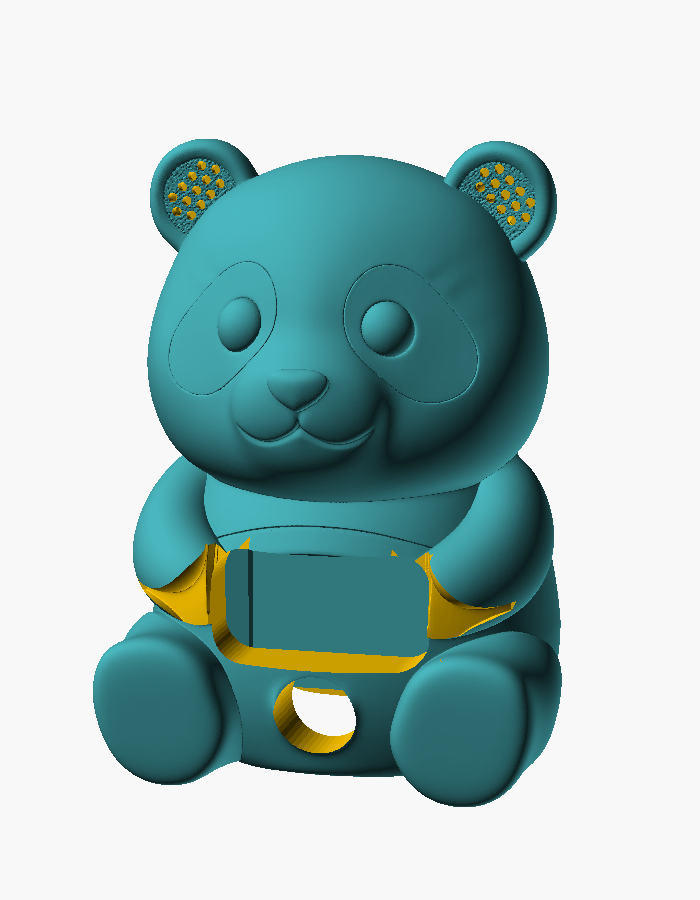
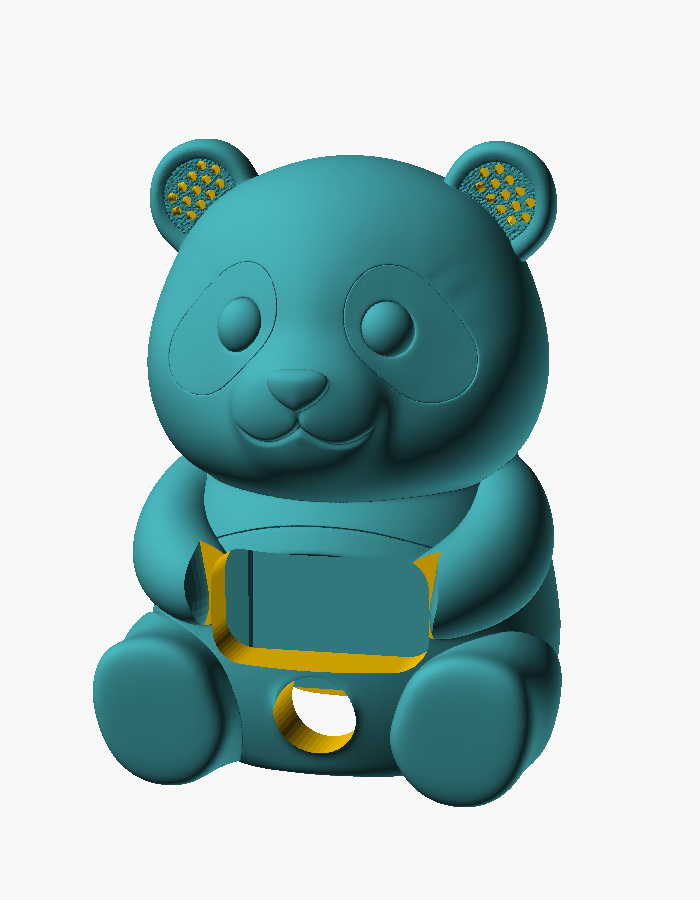
Roll the paw tips off the screen edge; drop the window bevel
The window bevel was the wrong tool. oled_bevel_* flared the whole aperture 5mm
outward wherever the skin bulged past Y58, which turned the paw slice into a ~35deg
bevel but left two flat "wings" either side of the screen, each ending in a hard
crescent line across the paw. Combined with the axis-shifted arm_trim raking the
arm's whole flank, the arms read as damaged rather than shortened.

What the arms actually are, from a fresh scan of the 500k mesh: at screen height
they ARE the body's flank. The front profile at Z56 climbs smoothly from Y38.7 at
X-52 to the paw crest Y61.5 at X-28 with no crease anywhere, i.e. there is no belly
surface hidden behind the folded arms. So they cannot be relocated or shaved back to
a torso: the cage's front face is at Y40.35, only ~13mm behind the paw crest, and a
Laplace-inpainted "belly" under the arms sags to Y38-44 through the arm zone, which
would both collapse the silhouette and leave 1-3mm of wall over the cage.

They also cannot be rigidly slid, which is the obvious reading of "shorten the arm".
The arm is fused to the belly along its whole length and the belly falls away steeply
outboard - at Z50 the skin drops from Y52.9 at X-44 to Y34.2 at X-52 - so a paw slid
8mm outboard hangs in mid-air off the flank, and slid along the arm axis it drags the
whole ridge with it and leaves a flat gap behind. Cutting perpendicular and sliding
always exposes a ledge, since the stump is fatter than the paw arriving at it. Only a
[…]

Changed region(s): [[0.6, 0.5911, 0.75, 0.7156], [0.21, 0.5911, 0.36, 0.7156]]

diff --git a/enclosure/README.md b/enclosure/README.md
@@ -12,6 +12,8 @@ be opened to service the clock.
 | `dimensions.scad` | Every component measurement + design decision, in ONE place. **Edit here.** |
 | `helpers.scad` | Shared shape modules (rounded box, screw boss, etc.). |
 | `cage.scad` | The electronics cage - the real mechanical part. Print-ready. |
+| `panda.scad` | The panda body: imports the sculpt, hollows it, cuts the openings. |
+| `fitcheck.scad` | Seats the cage in the body (ghost / section / breach modes). |
 | `layout_backwall.scad` | 2D map of the back-wall board layout (collision check). |
 | `render_previews.sh` | Renders `previews/*.png`. |
 
@@ -43,6 +45,37 @@ openscad -o cage.stl      -D 'part="cage"'      cage.scad
 openscad -o esp32_bar.stl -D 'part="esp32_bar"' cage.scad
 openscad -o dfp_bar.stl   -D 'part="dfp_bar"'   cage.scad
 ```
+
+## The panda body (`panda.scad`)
+
+Imports `panda/panda_original.stl` (never edited in place), scales it to 160 mm,
+hollows only where the cage sits, and cuts the OLED window, the joystick cone, the
+speaker chimney into the hollow head, the ear grilles, and the base hatch/rebate.
+Needs the **Manifold** backend (`--backend=Manifold`); the 500k-triangle mesh is
+far too slow for CGAL.
+
+**The folded arms / paw ends.** The OLED's lit area is 55.4 mm wide but the sculpted
+belly plaque is only ~40 mm, so the window's side edges land on the sculpt's folded
+paws. The arms cannot be relocated - at screen height they *are* the body's flank
+(there is no belly surface behind them), the cage needs that material, and the belly
+falls away too steeply outboard for a rigid slide to work - so instead each paw is
+**shortened, with its inboard tip rolled off to stop 0.4 mm short of the window
+rim**: everything in front of a bezel plane (`arm_y`, the plaque's own face level)
+inside a box around the arm is planed off, except an idealised arm - `arm_chain`, a
+chain of hulled spheres centred on that plane whose first sphere is tangent to the
+aperture. Because the sphere centres lie on the bezel plane, the surviving surface is
+a rolling-ball sweep: smooth along the arm and tangent to the window rim instead of
+sliced.
+
+`paw_r` is the knob that matters. Wherever the ball touches the window it reaches the
+same place whatever its radius, but a big ball leans away much more slowly and so
+undercuts far less of the paw behind the contact - at `paw_r = 16` only a ~3 mm strip
+of each paw is reshaped and everything outboard of X-31 is bit-for-bit the original
+sculpt (checked against the raw mesh: front-Y 62.5 at X-31, Z50, both before and
+after). Every face of the trim box sits where the sculpted skin is already behind the
+bezel plane (verified: 0.00 mm step on all four faces, 0.00 mm removed outboard of
+X-37), so the cut leaves no steps anywhere. This replaces an earlier countersink
+around the window (`oled_bevel_*`), which left two flat "wings" beside the screen.
 
 ## Rendering previews
 
